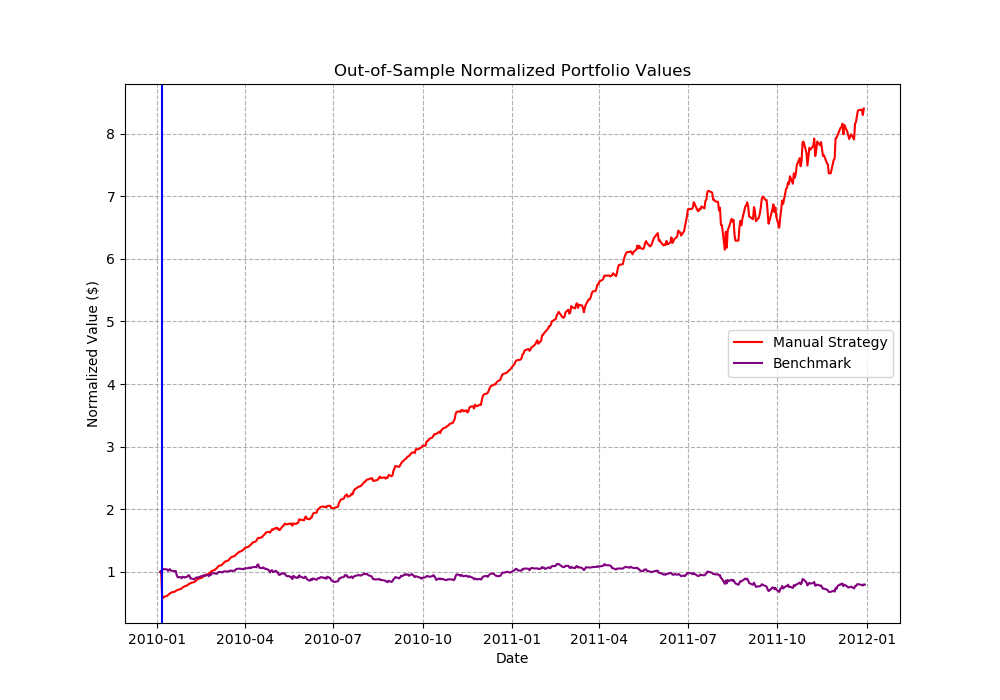
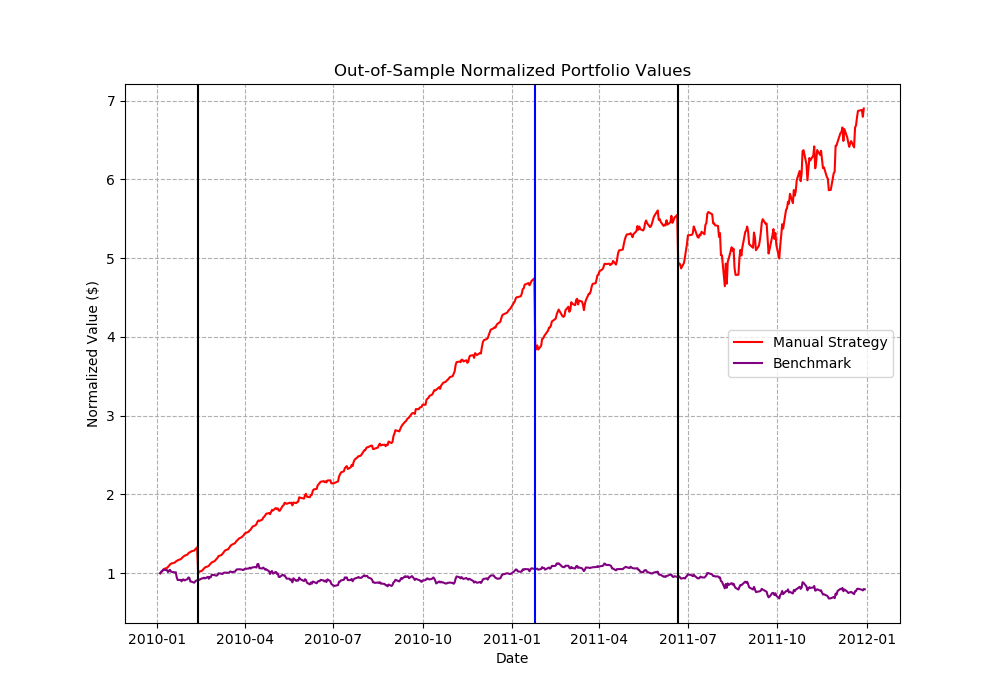
Project 8: Manual Strategy done for now

diff --git a/strategy_evaluation/ManualStrategy.py b/strategy_evaluation/ManualStrategy.py
@@ -5,8 +5,10 @@ import marketsimcode
 import matplotlib.pyplot as plt
 import indicators
 
+
 def author():
-  return 'jpb6' # replace tb34 with your Georgia Tech username.
+    return 'jpb6'  # replace tb34 with your Georgia Tech username.
+
 
 def manualStrategy(symbol, start_date, end_date, starting_value):
     sym = symbol[0]
@@ -24,12 +26,10 @@ def manualStrategy(symbol, start_date, end_date, starting_value):
     cci = indicators.cci(prices, 14)
     sma = indicators.sma(prices, 24)
 
-    pos_curr = 0
-    a_last = 0
-
+    short = []
+    long = []
+    holdings = 0
     for date in dates:
-        a_last += 1
-
         price_today = prices.loc[date]
         sma_today = sma.loc[date]
         macd_today = macd.loc[date]
@@ -57,27 +57,34 @@ def manualStrategy(symbol, start_date, end_date, starting_value):
             cci_vote = 0
 
         final_vote = macd_vote + cci_vote + sma_vote
-        if final_vote <= 3:
-            action = 1000 - pos_curr
+        if holdings == 0:
+            if final_vote >= 3:
+                trades.loc[date] = 1000
+                long.append(date)
+                holdings = 1000
+            elif final_vote <= -3:
+                trades.loc[date] = -1000
+                short.append(date)
+                holdings = -1000
+        elif holdings == 1000:
+            if final_vote <= -3:
+                trades.loc[date] = -2000
+                short.append(date)
+                holdings = -1000
+        elif holdings == -1000:
+            if final_vote >= 3:
+                trades.loc[date] = 2000
+                long.append(date)
+                holdings = 1000
 
-        elif final_vote >= -3:
-            action = - 1000 - pos_curr
-        else:
-            action = -pos_curr
+    return trades, long, short
 
-        if a_last >= 3:
-            trades.loc[date] = action
-            pos_curr += action
-            a_last = 0
-
-    return trades
 
 def inSample():
     start_date = dt.datetime(2008, 1, 1)
     end_date = dt.datetime(2009, 12, 30)
     symbols = ["JPM"]
-    trades = manualStrategy(symbols, start_date, end_date, starting_value=100000)
-
+    trades, long, short = manualStrategy(symbols, start_date, end_date, starting_value=100000)
     manualPortVals = marketsimcode.compute_portvals(orders_df=trades, impact=9.95, commission=0.005)
     crManual = (manualPortVals[-1] / manualPortVals[0]) - 1
     drManual = (manualPortVals[1:] / manualPortVals.shift(1)) - 1
@@ -104,23 +111,6 @@ def inSample():
             std_drBenchmark) + "\n MEAN_DR = " + str(mean_drBenchmark) + "\n")
     f.close()
 
-    long = []
-    short = []
-    current = 0
-    last_action = 'OUT'
-    for date in trades.index:
-        current += trades.loc[date].loc['JPM']
-        if current < 0:
-            if last_action == 'OUT' or last_action == 'LONG':
-                last_action = 'SHORT'
-                short.append(date)
-        elif current > 0:
-            if last_action == 'OUT' or last_action == 'SHORT':
-                last_action = 'LONG'
-                long.append(date)
-        else:
-            last_action = 'OUT'
-
     f = plt.figure()
     f.set_figwidth(10)
     f.set_figheight(7)
@@ -139,11 +129,12 @@ def inSample():
     plt.clf()
     plt.close(f)
 
+
 def outSample():
     start_date = dt.datetime(2010, 1, 1)
     end_date = dt.datetime(2011, 12, 30)
     symbols = ["JPM"]
-    trades = manualStrategy(symbols, start_date, end_date, starting_value=100000)
+    trades, long, short = manualStrategy(symbols, start_date, end_date, starting_value=100000)
 
     manualPortVals = marketsimcode.compute_portvals(orders_df=trades, impact=9.95, commission=0.005)
     crManual = (manualPortVals[-1] / manualPortVals[0]) - 1
@@ -161,25 +152,6 @@ def outSample():
     std_drBenchmark = drBenchmark.std()
     mean_drBenchmark = drBenchmark.mean()
     benchmarkNorm = benchmarkPortVals / benchmarkPortVals.iloc[0]
-
-    long = []
-    short = []
-    current = 0
-    last_action = 0
-    for date in trades.index:
-        current = trades.loc[date].loc['JPM']
-        print(current)
-        if current < 0:
-            last_action = current
-            short.append(date)
-        elif current > 0:
-            last_action = current
-            long.append(date)
-        else:
-            last_action = current
-
-    print(long)
-    print(short)
 
     f = open("p8_outSample_results.txt", "a")
     f.truncate(0)
@@ -208,9 +180,7 @@ def outSample():
     plt.clf()
     plt.close(f)
 
+
 if __name__ == "__main__":
     inSample()
     outSample()
-
-
-
